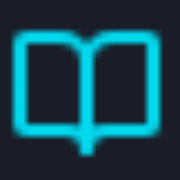
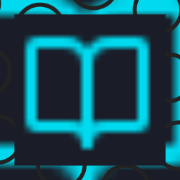
Updated README.md

diff --git a/README.md b/README.md
@@ -1,4 +1,4 @@
-# 📚 Anime Wiki
+# <img src="/public/favicon.ico"> Anime Wiki[Website & APK]
 
 <p align="center">
   <img src="./public/anime-wiki.png" alt="Anime Wiki Logo" width="800"/>